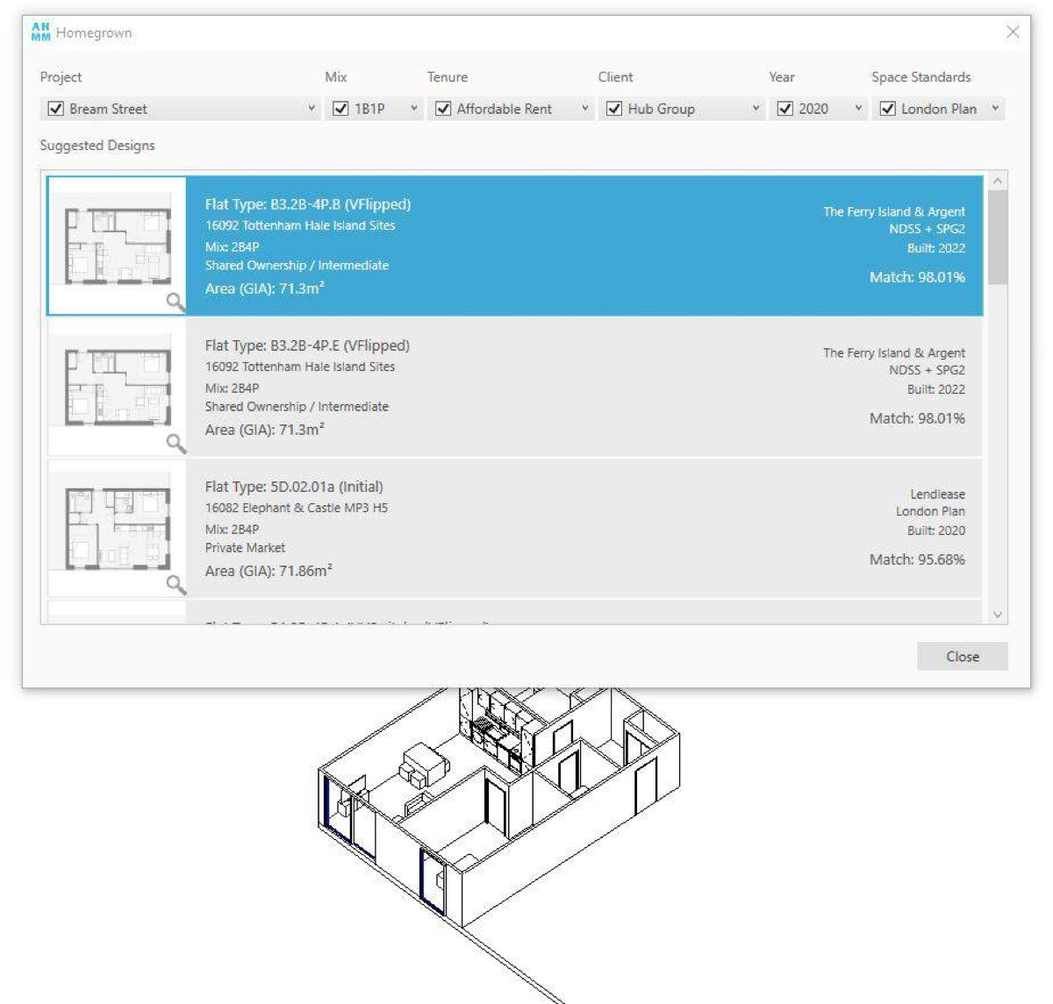
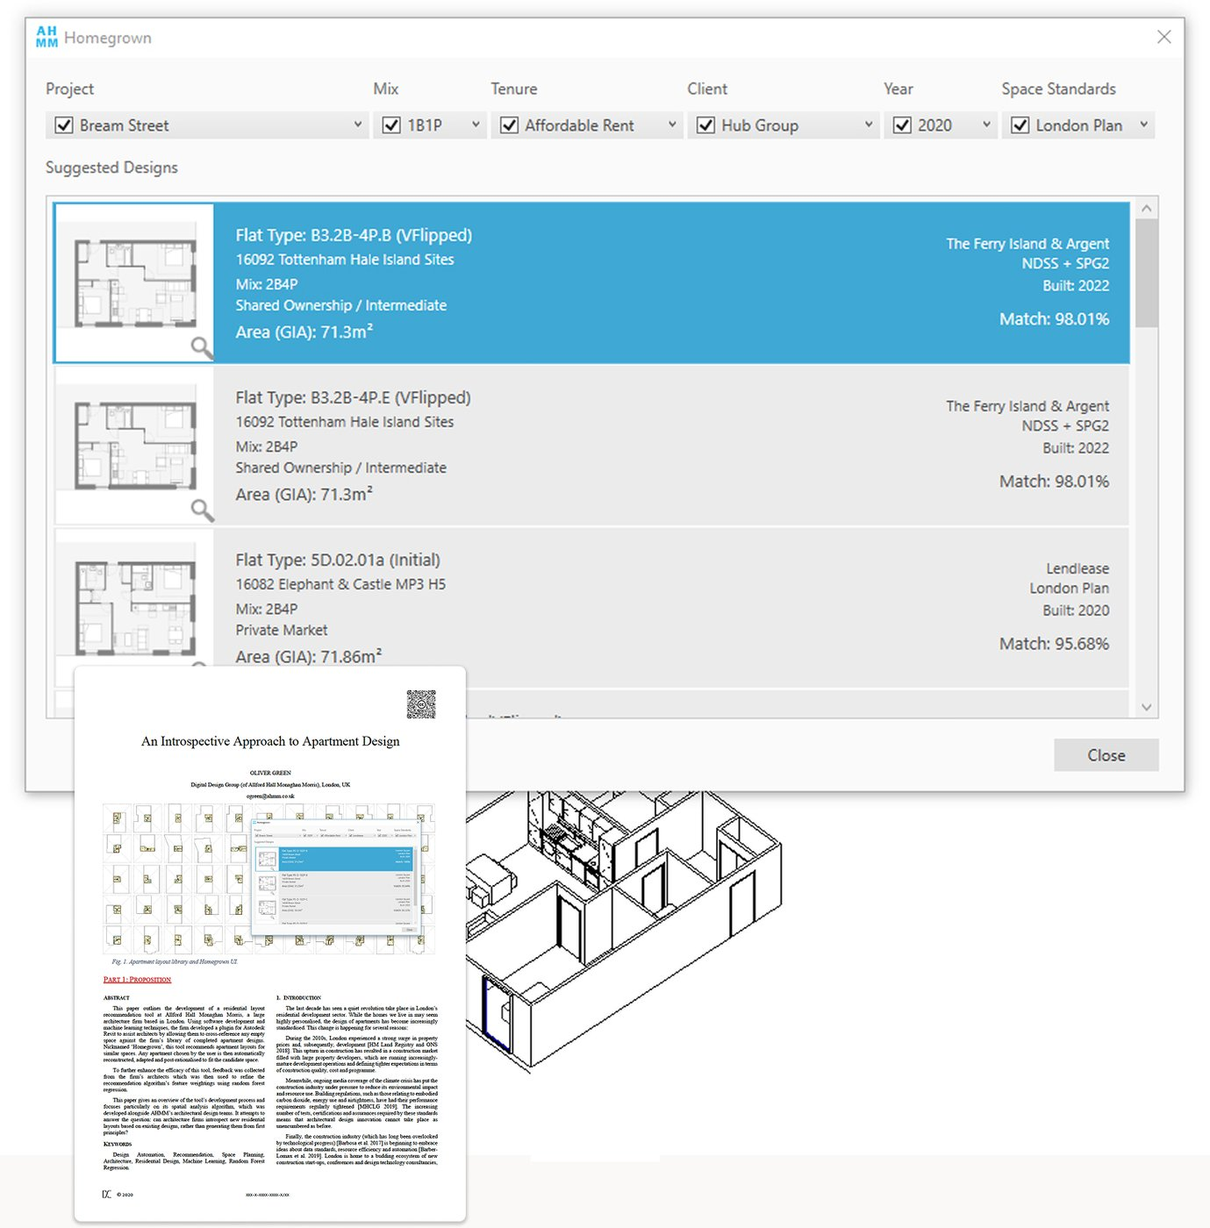
Projects become a collection: card grid + dedicated page per project
- New projects collection (output at /projects/<slug>/) with a project
  layout; all body text moves from the listing to the dedicated pages
- /projects/ is now a two-column card grid: media, title, year pill and
  kicker inside each card, hover lift + image zoom
- New high-res heroes: KOPE configurator mockup, KOPE compare view,
  Homegrown composite, rebuilt Dynamo canvas (all composited on cream)
- Escape-line randomiser scoped to blog posts so project pages keep
  their "All projects" back link

diff --git a/assets/css/styles.css b/assets/css/styles.css
@@ -299,18 +299,47 @@ article.post .cv-what h3 { margin: 0 0 8px; }
 .cv-what p:last-child { margin-bottom: 0; }
 @media (max-width: 600px) { .cv-entry { flex-direction: column; gap: 4px; } .cv-when { flex-basis: auto; } }
 
+/* ---------- Project card grid ---------- */
+.pgrid { display: grid; grid-template-columns: 1fr 1fr; gap: 22px; margin: 26px 0 12px; }
+article.post a.pcard {
+  display: flex; flex-direction: column;
+  background: var(--surface); border: 1px solid var(--rule); border-radius: 14px;
+  overflow: hidden; border-bottom: 1px solid var(--rule);
+  box-shadow: 0 1px 3px rgba(38, 35, 28, 0.05);
+  transition: transform .2s ease, box-shadow .25s ease, border-color .2s ease;
+  background-image: none;
+}
+article.post a.pcard:hover {
+  transform: translateY(-3px);
+  border-color: var(--rule-dark);
+  box-shadow: 0 14px 34px rgba(38, 35, 28, 0.16);
+  background-image: none; color: inherit;
+}
+.pcard-media { height: 175px; overflow: hidden; background: var(--tint); }
+article.post .pcard-media img {
+  width: 100%; height: 100%; object-fit: cover; object-position: top center;
+  margin: 0; border: 0; border-radius: 0; max-width: 100%;
+  transition: transform .35s ease;
+}
+article.post a.pcard:hover .pcard-media img { transform: scale(1.045); }
+.pcard-body { padding: 15px 18px 17px; font-family: var(--sans); }
+.pcard-title { font-size: 16.5px; font-weight: 700; color: var(--ink); display: flex; align-items: center; gap: 10px; flex-wrap: wrap; }
+.pcard-title .cv-year { font-size: 11px; padding: 3px 10px; }
+.pcard-kicker { font-family: var(--serif); font-size: 14px; color: var(--ink-mute); margin-top: 5px; line-height: 1.45; }
+@media (max-width: 640px) { .pgrid { grid-template-columns: 1fr; } .pcard-media { height: 160px; } }
+
 /* ---------- Projects ---------- */
 .project { margin: 0 0 56px; }
 .project h3 { display: flex; align-items: center; gap: 12px; flex-wrap: wrap; }
 .project .cv-year { font-size: 11.5px; }
 .project-kicker { font-family: var(--sans); font-size: 13.5px; color: var(--ink-faint); margin: 0 0 4px; }
-article.post .project img {
+article.post .project img, article.post .project-page img {
   margin: 20px 0 24px; width: 100%; height: 300px;
   object-fit: cover; object-position: top center;
   transition: transform .25s ease, box-shadow .25s ease, border-color .25s ease;
 }
-article.post .project img.crop-center { object-position: center; }
-article.post .project img:hover {
+article.post .project img.crop-center, article.post .project-page img.crop-center { object-position: center; }
+article.post .project img:hover, article.post .project-page img:hover {
   transform: scale(1.015);
   box-shadow: 0 10px 30px rgba(38, 35, 28, 0.14);
   border-color: var(--rule-dark);

diff --git a/_layouts/project.html b/_layouts/project.html
@@ -1,0 +1,18 @@
+---
+layout: default
+---
+<article class="post project-page">
+    <header>
+        <p class="meta">
+            <span class="cv-year">{{ page.year }}</span>
+        </p>
+        <h1>{{ page.title }}</h1>
+        {% if page.kicker %}<p class="tagline">{{ page.kicker }}</p>{% endif %}
+    </header>
+
+    {{ content }}
+</article>
+
+<nav class="post-nav">
+    <a href="{{ '/projects/' | relative_url }}">&larr; All projects</a>
+</nav>

diff --git a/assets/js/site.js b/assets/js/site.js
@@ -87,7 +87,7 @@
   }
 
   // 5) Post-nav back link: randomise the escape text per page load
-  var backLink = document.querySelector('.post-nav a');
+  var backLink = document.querySelector('.post-nav a.escape-hatch');
   if (backLink) {
     var EXITS = [
       'Quick! Let’s escape',

diff --git a/_layouts/post.html b/_layouts/post.html
@@ -14,5 +14,5 @@ layout: default
 </article>
 
 <nav class="post-nav">
-    <a href="{{ '/' | relative_url }}">&larr; Who let you in here? Get out!</a>
+    <a class="escape-hatch" href="{{ '/' | relative_url }}">&larr; Who let you in here? Get out!</a>
 </nav>

diff --git a/projects.md b/projects.md
@@ -11,91 +11,31 @@ permalink: /projects/
     </header>
 
     <h2 id="work">Work</h2>
-
-    <div class="project">
-        <h3><a href="https://www.kope.ai/">KOPE</a> <span class="cv-year">2022 – 2026</span></h3>
-        <p class="project-kicker">Configurator platform for industrialized construction</p>
-        <img src="{{ '/assets/images/projects/kope.jpg' | relative_url }}" alt="The KOPE configurator: a building model in the 3D viewer with product applications and the datatable open">
-        <p>KOPE is a multiplayer B2B SaaS platform for offsite construction, built around a highly performant Three.js viewer optimised for large, detailed building models.</p>
-        <p>At its heart, it lets users apply a library of configurable construction products to their building designs, resolving them to a manufacturing level of detail within minutes — each product carrying the logic, options and limitations of its manufacturer.</p>
-        <p>I joined when it was marketed as a generic workflow automation tool and pitched the reframing we never looked back from: a place for the industry to simply <em>apply products to their projects</em>.</p>
-        <p>Since then I've led the platform team and owned the vision, roadmap and design of the flagship app — entirely no-code product build-up, a flexible datatable for interrogating and visualising data, side-by-side design option comparison, multi-objective evolutionary optimisation, and most recently a suite of 3D model editing tools.</p>
-    </div>
-
-    <div class="project">
-        <h3><a href="https://market.kope.ai/">KOPE Market</a> <span class="cv-year">2021 – 2026</span></h3>
-        <p class="project-kicker">International marketplace for offsite construction</p>
-        <img class="crop-center" src="{{ '/assets/images/projects/kope-market.jpg' | relative_url }}" alt="A collage of KOPE Market screens: homepage, specifier search, supplier profile, case study and mobile views">
-        <p>The marketplace began as a research task: within a month I'd amassed an enormous database of interconnected datapoints — people, places, media, manufacturers, exemplar projects and software.</p>
-        <p>We launched it as a standalone, open and free website, bringing transparency to construction's infamously opaque supply chains while acting as our startup's advertising engine.</p>
-        <div class="project-pair">
-            <img src="{{ '/assets/images/projects/kope-market-products.jpg' | relative_url }}" alt="KOPE Market's product search: a filterable grid of wall systems from different manufacturers">
-            <img src="{{ '/assets/images/projects/kope-market-map.jpg' | relative_url }}" alt="KOPE Market's supplier map view: filtered organisations pinned across London">
-        </div>
-        <p>I led its development from day one: designing the responsive site, writing all requirements, even specifying the database tables. Today it's fully internationalised and white-labelled — including a version delivered to the NHS New Hospitals Programme — with thousands of products searchable across international certification standards.</p>
-    </div>
-
-    <div class="project">
-        <h3><a href="https://dynamobim.org/dynamo-core-2-13-release-part-1-3/">Dynamo UI Rebuild</a> <span class="cv-year">2021</span></h3>
-        <p class="project-kicker">Contract UI rebuild of visual programming software, for Autodesk</p>
-        <img src="{{ '/assets/images/projects/dynamo-rebuild.jpg' | relative_url }}" alt="The rebuilt Dynamo node interface showing code blocks, node connections and context menus">
-        <p>A full-circle moment: I first learned to program in Dynamo's interface, and much of this contract's initial workload came from feature requests I had logged on GitHub years earlier.</p>
-        <p>Working with Autodesk's product and UI team, I rebuilt the core app UI — the highly configurable node UI, the node library and search, much of the package manager, and a new hierarchical warning system — in XAML, C# and WPF's MVVM architecture, with every build subjected to over 10,000 tests.</p>
-        <p>The richer UI initially brought a performance hit ("Dynamo is pushing the reasonable limits of what WPF can achieve"), so I profiled it with dotMemory until the rebuilt app outperformed the old one. Autodesk offered me a job afterwards — but my heart was set on product management.</p>
-    </div>
-
-    <div class="project">
-        <h3><a href="https://www.researchgate.net/publication/344684613_An_Introspective_Approach_to_Apartment_Design">Homegrown</a> <span class="cv-year">2019 – 2020</span></h3>
-        <p class="project-kicker">Machine learning apartment recommendation</p>
-        <img src="{{ '/assets/images/projects/homegrown.jpg' | relative_url }}" alt="Homegrown's suggested designs dialog in Revit, ranking previously built apartment layouts by match percentage">
-        <p>Automated space planning has been discussed for decades — physics-based systems, Bayesian analysis, evolutionary algorithms, deep learning — yet architects were still designing apartments manually. Homegrown took a novel approach: instead of generic spatial intelligence, work backwards from the firm's own library of built apartment designs.</p>
-        <p>The result is a recommendation engine that recognises similarity between spaces regardless of size, shape, mirroring or rotation, delivered as a Revit plugin with zero setup.</p>
-        <p>Click inside any space and it presents ranked, previously-built layouts, reconstructing the chosen one in seconds with approved 3D content and best-practice metadata. It went viral in the construction-tech space and became a research paper at UCL's first DC I/O conference.</p>
-    </div>
-
-    <div class="project">
-        <h3>AHMM Tools <span class="cv-year">2017 – 2021</span></h3>
-        <p class="project-kicker">Custom design and workflow tools for architects</p>
-        <img src="{{ '/assets/images/projects/ahmm-tools.jpg' | relative_url }}" alt="AHMM Tools: the element aligner palette beside an annotated construction detail">
-        <p>Four years of building whatever <a href="https://www.ahmm.co.uk/">AHMM</a>'s project teams needed, distilled into a plugin deployed to every architect across multiple international offices.</p>
-        <p>The greatest hits: an element pre-delete tool showing the knock-on consequences before you break something, an embodied carbon calculator aligned to RICS categories, model issue validation and stripping, geolocation setup, aligners and distributors, data validation checks and instant guidance search.</p>
-        <p>Beyond the plugin, I built automation bridging Revit to InDesign, Excel, SQL databases and local knowledge stores — code-signed, silently deployed, and reporting telemetry so our Digital Design Group understood how each tool was actually used.</p>
-    </div>
-
-    <div class="project">
-        <h3>Computational Chandelier <span class="cv-year">2017 – 2018</span></h3>
-        <p class="project-kicker">Math-driven artwork for Broadgate, with sculptor Vlad Tenu</p>
-        <img src="{{ '/assets/images/projects/chandelier.jpg' | relative_url }}" alt="The finished Broadgate lighting feature: hundreds of suspended ring lamps forming a rippled canopy in an atrium">
-        <p>Sculptor <a href="https://www.vladtenu.com/">Vlad Tenu</a> asked me to build a custom tool to explore ideas for a large lighting feature — the centrepiece of a Broadgate fit-out. We devised a math-driven approach: two colliding sine waves with an exponential function controlling sculptural tension, tunable by lamp density, curve steepness, offsets, depth, even colour temperature.</p>
-        <p>Paired with Dynamo and Enscape, the workflow let the sculpture be shaped in real time using VR, ensuring the form worked within the tight lobby space.</p>
-    </div>
-
-    <div class="project">
-        <h3>Facade Explorer <span class="cv-year">2018 – 2019</span></h3>
-        <p class="project-kicker">Instant VR concept optioneering tool</p>
-        <img src="{{ '/assets/images/projects/facade-explorer.jpg' | relative_url }}" alt="A matrix of fifteen generated facade options in different materials and colourways">
-        <p>An opportunistic mash-up of technologies built for early-stage project bids: a rule-driven Revit family generating an L-System facade with over 60 instance parameters, a Dynamo script recreating the optioneering spirit of Autodesk's Fractal, and Enscape delivering bid-quality visuals.</p>
-        <p>A happy side effect: it ran in VR through a game engine, so users could walk around a facade while trying new options every few seconds — 'locking' features they liked and exploring an enormous design space in a playful, engaging way.</p>
+    <div class="pgrid">
+        {% assign work = site.projects | where: "section", "work" | sort: "order" %}
+        {% for pr in work %}
+        <a class="pcard" href="{{ pr.url | relative_url }}">
+            <div class="pcard-media"><img src="{{ pr.image | relative_url }}" alt="{{ pr.title }}"></div>
+            <div class="pcard-body">
+                <div class="pcard-title">{{ pr.title }} <span class="cv-year">{{ pr.year }}</span></div>
+                <div class="pcard-kicker">{{ pr.kicker }}</div>
+            </div>
+        </a>
+        {% endfor %}
     </div>
 
     <h2 id="open-source">Open Source</h2>
-
-    <div class="project">
-        <h3><a href="https://dynamopythonprimer.gitbook.io/dynamo-python-primer">Dynamo Python Primer</a> <span class="cv-year">2019</span></h3>
-        <p class="project-kicker">Guidance passion project</p>
-        <img src="{{ '/assets/images/projects/python-primer.jpg' | relative_url }}" alt="The Dynamo Python Primer on Gitbook, open at its welcome page">
-        <p>Many capable Dynamo users struggle to make the jump from node-based usage to Python and API calls — not because Python is hard, but because nobody explained how IronPython works or what .NET even is.</p>
-        <p>Over Christmas 2019 I wrote an <a href="https://github.com/OliverEGreen/DynamoPythonPrimer">open-source guide</a> covering all the knowledge I'd found hard to come by.</p>
-        <p>It's been visited tens of thousands of times and was eventually merged into the official guidance by Autodesk.</p>
-    </div>
-
-    <div class="project">
-        <h3><a href="https://github.com/OliverEGreen/Regular">Regular</a> <span class="cv-year">2019 – 2020</span></h3>
-        <p class="project-kicker">Intuitive data validation for architects</p>
-        <img src="{{ '/assets/images/projects/regular.jpg' | relative_url }}" alt="Regular's rule manager: building a plain-English data format rule from parts like 'Specific Character' and 'Any Digit'">
-        <p>Regular expressions are brilliant for data validation and miserable to write (even for many programmers).</p>
-        <p>Born at the 2019 AECTech Hackathon, Regular brings their benefits to non-coders: define data format rules in plain English through an intuitive UI, and the plugin silently translates them into regex.</p>
-        <p>Rules live inside Revit models via the Extensible Storage API, and the Dynamic Model Updater validates data continuously against them — flagging each element's compliance with your standards as you work.</p>
+    <div class="pgrid">
+        {% assign oss = site.projects | where: "section", "open-source" | sort: "order" %}
+        {% for pr in oss %}
+        <a class="pcard" href="{{ pr.url | relative_url }}">
+            <div class="pcard-media"><img src="{{ pr.image | relative_url }}" alt="{{ pr.title }}"></div>
+            <div class="pcard-body">
+                <div class="pcard-title">{{ pr.title }} <span class="cv-year">{{ pr.year }}</span></div>
+                <div class="pcard-kicker">{{ pr.kicker }}</div>
+            </div>
+        </a>
+        {% endfor %}
     </div>
 
     <p class="projects-fun-link">Looking for the silly stuff? That lives over in <a href="{{ '/fun/' | relative_url }}">Fun</a>.</p>

diff --git a/_projects/kope-market.md b/_projects/kope-market.md
@@ -1,0 +1,19 @@
+---
+title: KOPE Market
+year: 2021 – 2026
+kicker: International marketplace for offsite construction
+section: work
+order: 2
+image: /assets/images/projects/kope-market.jpg
+link: https://market.kope.ai/
+---
+
+<img class="crop-center" src="{{ '/assets/images/projects/kope-market.jpg' | relative_url }}" alt="A collage of KOPE Market screens: homepage, specifier search, supplier profile, case study and mobile views">
+
+<p>The <a href="https://market.kope.ai/">marketplace</a> began as a research task: within a month I'd amassed an enormous database of interconnected datapoints — people, places, media, manufacturers, exemplar projects and software.</p>
+<p>We launched it as a standalone, open and free website, bringing transparency to construction's infamously opaque supply chains while acting as our startup's advertising engine.</p>
+<div class="project-pair">
+    <img src="{{ '/assets/images/projects/kope-market-products.jpg' | relative_url }}" alt="KOPE Market's product search: a filterable grid of wall systems from different manufacturers">
+    <img src="{{ '/assets/images/projects/kope-market-map.jpg' | relative_url }}" alt="KOPE Market's supplier map view: filtered organisations pinned across London">
+</div>
+<p>I led its development from day one: designing the responsive site, writing all requirements, even specifying the database tables. Today it's fully internationalised and white-labelled — including a version delivered to the NHS New Hospitals Programme — with thousands of products searchable across international certification standards.</p>

diff --git a/_projects/kope.md b/_projects/kope.md
@@ -1,0 +1,17 @@
+---
+title: KOPE
+year: 2022 – 2026
+kicker: Configurator platform for industrialized construction
+section: work
+order: 1
+image: /assets/images/projects/kope.jpg
+link: https://www.kope.ai/
+---
+
+<img src="{{ '/assets/images/projects/kope.jpg' | relative_url }}" alt="The KOPE configurator: a building model in the 3D viewer with product applications and the datatable open">
+
+<p><a href="https://www.kope.ai/">KOPE</a> is a multiplayer B2B SaaS platform for offsite construction, built around a highly performant Three.js viewer optimised for large, detailed building models.</p>
+<p>At its heart, it lets users apply a library of configurable construction products to their building designs, resolving them to a manufacturing level of detail within minutes — each product carrying the logic, options and limitations of its manufacturer.</p>
+<p>I joined when it was marketed as a generic workflow automation tool and pitched the reframing we never looked back from: a place for the industry to simply <em>apply products to their projects</em>.</p>
+<img src="{{ '/assets/images/projects/kope-compare.jpg' | relative_url }}" alt="KOPE's compare view: three design options side by side with cost, time and embodied carbon totals">
+<p>Since then I've led the platform team and owned the vision, roadmap and design of the flagship app — entirely no-code product build-up, a flexible datatable for interrogating and visualising data, side-by-side design option comparison, multi-objective evolutionary optimisation, and most recently a suite of 3D model editing tools.</p>

diff --git a/_projects/dynamo-ui-rebuild.md b/_projects/dynamo-ui-rebuild.md
@@ -1,0 +1,16 @@
+---
+title: Dynamo UI Rebuild
+year: 2021
+kicker: Contract UI rebuild of visual programming software, for Autodesk
+section: work
+order: 3
+image: /assets/images/projects/dynamo-rebuild.jpg
+link: https://dynamobim.org/dynamo-core-2-13-release-part-1-3/
+---
+
+<img src="{{ '/assets/images/projects/dynamo-rebuild.jpg' | relative_url }}" alt="The rebuilt Dynamo node interface showing code blocks, node connections and context menus">
+
+<p>A full-circle moment: I first learned to program in Dynamo's interface, and much of this contract's initial workload came from feature requests I had logged on GitHub years earlier.</p>
+<p>Working with Autodesk's product and UI team, I rebuilt the core app UI — the highly configurable node UI, the node library and search, much of the package manager, and a new hierarchical warning system — in XAML, C# and WPF's MVVM architecture, with every build subjected to over 10,000 tests. The <a href="https://dynamobim.org/dynamo-core-2-13-release-part-1-3/">Dynamo 2.13 release</a> shipped the results.</p>
+<img src="{{ '/assets/images/projects/dynamo-canvas.jpg' | relative_url }}" alt="The rebuilt Dynamo home canvas: library panel, geometry grid and run controls">
+<p>The richer UI initially brought a performance hit ("Dynamo is pushing the reasonable limits of what WPF can achieve"), so I profiled it with dotMemory until the rebuilt app outperformed the old one. Autodesk offered me a job afterwards — but my heart was set on product management.</p>

diff --git a/_projects/homegrown.md b/_projects/homegrown.md
@@ -1,0 +1,15 @@
+---
+title: Homegrown
+year: 2019 – 2020
+kicker: Machine learning apartment recommendation
+section: work
+order: 4
+image: /assets/images/projects/homegrown.jpg
+link: https://www.researchgate.net/publication/344684613_An_Introspective_Approach_to_Apartment_Design
+---
+
+<img class="crop-center" src="{{ '/assets/images/projects/homegrown.jpg' | relative_url }}" alt="Homegrown's suggested-designs dialog, the published research paper and an axonometric apartment drawing">
+
+<p>Automated space planning has been discussed for decades — physics-based systems, Bayesian analysis, evolutionary algorithms, deep learning — yet architects were still designing apartments manually. Homegrown took a novel approach: instead of generic spatial intelligence, work backwards from the firm's own library of built apartment designs.</p>
+<p>The result is a recommendation engine that recognises similarity between spaces regardless of size, shape, mirroring or rotation, delivered as a Revit plugin with zero setup.</p>
+<p>Click inside any space and it presents ranked, previously-built layouts, reconstructing the chosen one in seconds with approved 3D content and best-practice metadata. It went viral in the construction-tech space and became <a href="https://www.researchgate.net/publication/344684613_An_Introspective_Approach_to_Apartment_Design">a research paper</a> at UCL's first DC I/O conference.</p>

diff --git a/_projects/ahmm-tools.md b/_projects/ahmm-tools.md
@@ -1,0 +1,14 @@
+---
+title: AHMM Tools
+year: 2017 – 2021
+kicker: Custom design and workflow tools for architects
+section: work
+order: 5
+image: /assets/images/projects/ahmm-tools.jpg
+---
+
+<img src="{{ '/assets/images/projects/ahmm-tools.jpg' | relative_url }}" alt="AHMM Tools: the element aligner palette beside an annotated construction detail">
+
+<p>Four years of building whatever <a href="https://www.ahmm.co.uk/">AHMM</a>'s project teams needed, distilled into a plugin deployed to every architect across multiple international offices.</p>
+<p>The greatest hits: an element pre-delete tool showing the knock-on consequences before you break something, an embodied carbon calculator aligned to RICS categories, model issue validation and stripping, geolocation setup, aligners and distributors, data validation checks and instant guidance search.</p>
+<p>Beyond the plugin, I built automation bridging Revit to InDesign, Excel, SQL databases and local knowledge stores — code-signed, silently deployed, and reporting telemetry so our Digital Design Group understood how each tool was actually used.</p>

diff --git a/_projects/regular.md b/_projects/regular.md
@@ -1,0 +1,14 @@
+---
+title: Regular
+year: 2019 – 2020
+kicker: Intuitive data validation for architects
+section: open-source
+order: 2
+image: /assets/images/projects/regular.jpg
+link: https://github.com/OliverEGreen/Regular
+---
+
+<img src="{{ '/assets/images/projects/regular.jpg' | relative_url }}" alt="Regular's rule manager: building a plain-English data format rule from parts like 'Specific Character' and 'Any Digit'">
+
+<p>Regular expressions are brilliant for data validation and miserable to write (even for many programmers). Born at the 2019 AECTech Hackathon, <a href="https://github.com/OliverEGreen/Regular">Regular</a> brings their benefits to non-coders: define data format rules in plain English through an intuitive UI, and the plugin silently translates them into regex.</p>
+<p>Rules live inside Revit models via the Extensible Storage API, and the Dynamic Model Updater validates data continuously against them — flagging each element's compliance with your standards as you work.</p>

diff --git a/_projects/dynamo-python-primer.md b/_projects/dynamo-python-primer.md
@@ -1,0 +1,14 @@
+---
+title: Dynamo Python Primer
+year: 2019
+kicker: Open source guidance passion project
+section: open-source
+order: 1
+image: /assets/images/projects/python-primer.jpg
+link: https://dynamopythonprimer.gitbook.io/dynamo-python-primer
+---
+
+<img src="{{ '/assets/images/projects/python-primer.jpg' | relative_url }}" alt="The Dynamo Python Primer on Gitbook, open at its welcome page">
+
+<p>Many capable Dynamo users struggle to make the jump from node-based usage to Python and API calls — not because Python is hard, but because nobody explained how IronPython works or what .NET even is.</p>
+<p>Over Christmas 2019 I wrote an <a href="https://github.com/OliverEGreen/DynamoPythonPrimer">open-source guide</a> covering all the knowledge I'd found hard to come by. It's been <a href="https://dynamopythonprimer.gitbook.io/dynamo-python-primer">visited</a> tens of thousands of times and was eventually merged into the official guidance by Autodesk.</p>
